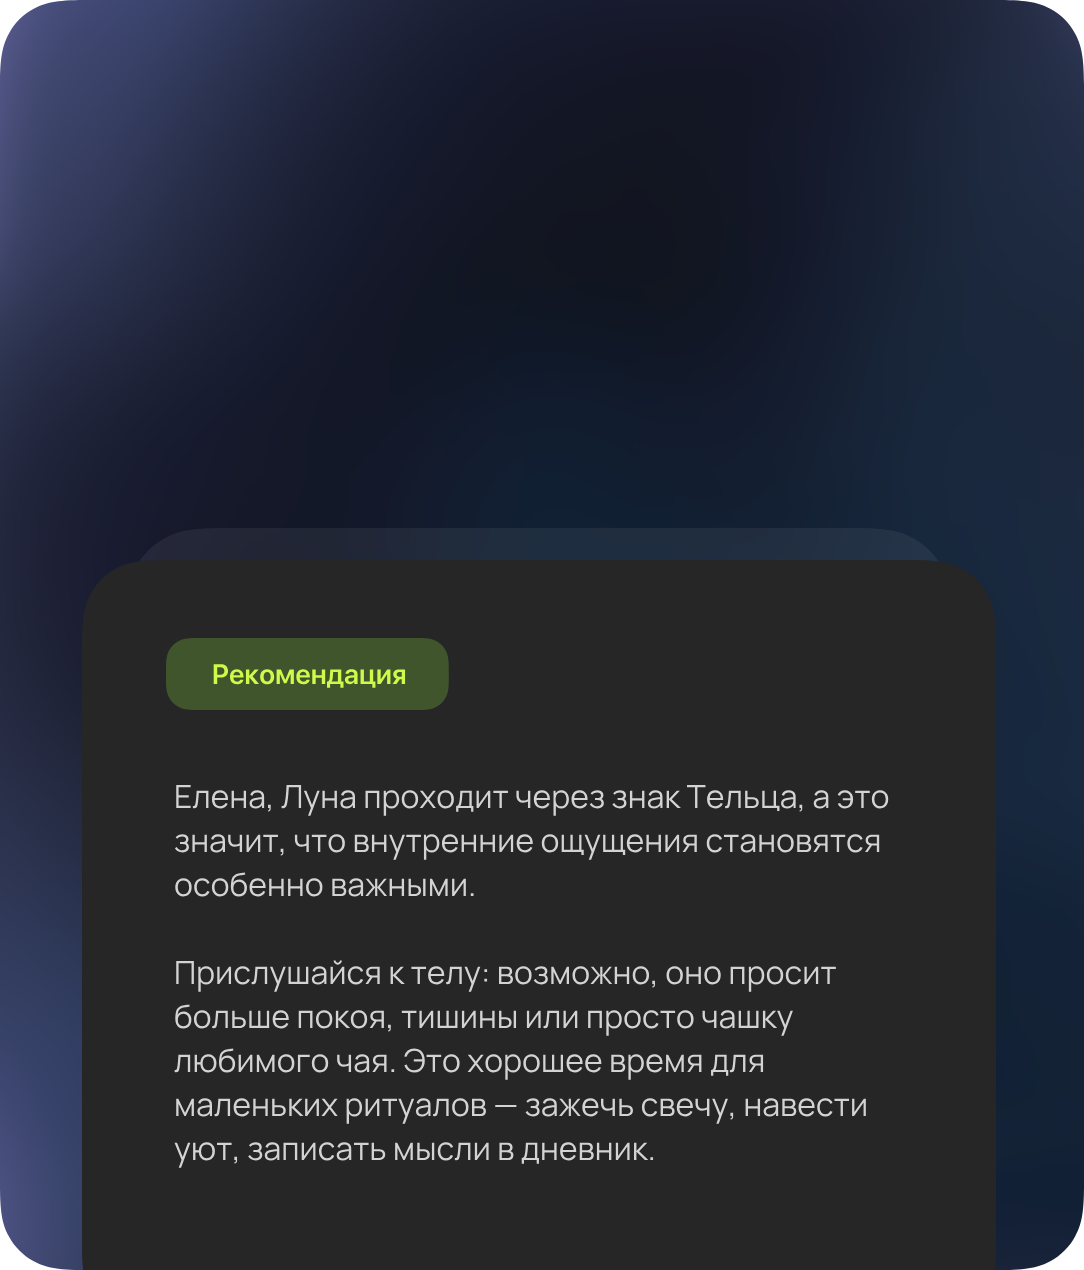
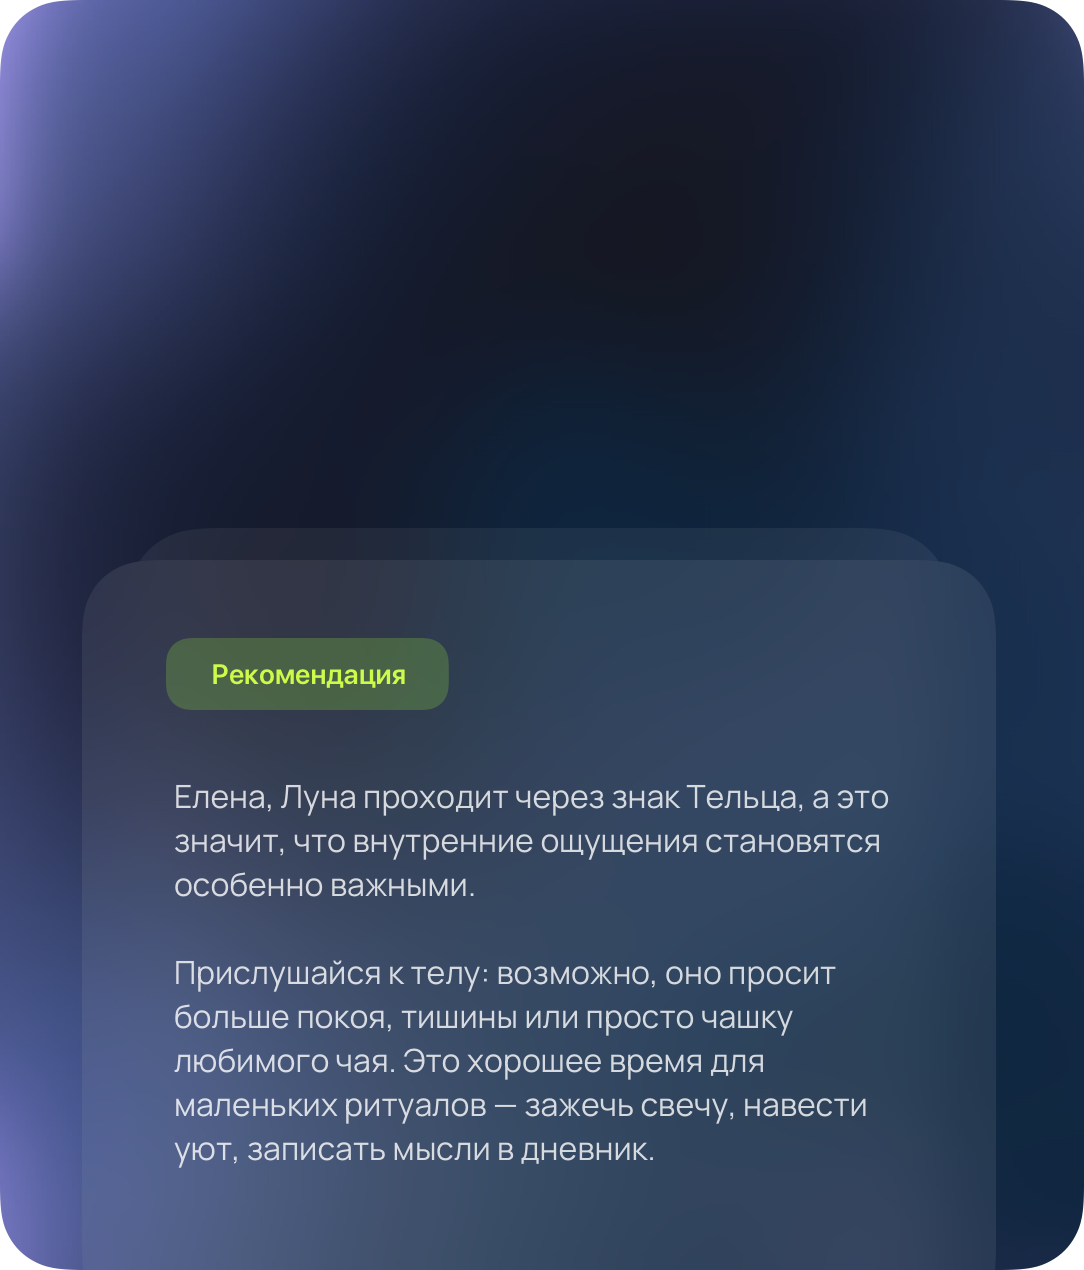
fix1

diff --git a/components/hero.vue b/components/hero.vue
@@ -31,8 +31,8 @@
 
       <div class="motion-container" ref="containerRef">
         <div class="subtitle-global">
-          Персональные подсказки, проверенные эксперты и практики <br />
-          для заботы о себе в одном приложении.
+          Персональные подсказки, проверенные эксперты и практики для заботы о
+          себе в одном приложении.
         </div>
       </div>
       <img
@@ -96,6 +96,7 @@ onMounted(() => {
 <style scoped lang="scss">
 .motion-container {
   width: 100%;
+  max-width: 575px;
   visibility: hidden;
 }
 
@@ -205,7 +206,7 @@ onMounted(() => {
   width: 90vw;
   height: 440px;
   border-radius: 50%;
-  // opacity: 0.57;
+  opacity: 0.57;
 
   &::before {
     content: "";

diff --git a/components/top-bar.vue b/components/top-bar.vue
@@ -15,8 +15,8 @@
       <div class="right__app">
         <BaseButton variant="rounded">
           <svg
-            width="22"
-            height="26"
+            width="18"
+            height="21"
             viewBox="0 0 22 26"
             fill="none"
             xmlns="http://www.w3.org/2000/svg"
@@ -31,8 +31,8 @@
 
         <BaseButton variant="rounded">
           <svg
-            width="22"
-            height="24"
+            width="18"
+            height="20"
             viewBox="0 0 22 24"
             fill="none"
             xmlns="http://www.w3.org/2000/svg"

diff --git a/components/shared/accordion-panel.vue b/components/shared/accordion-panel.vue
@@ -65,8 +65,9 @@ watch(expanded, async (val) => {
   display: flex;
   justify-content: space-between;
   align-items: center;
-  height: 80px;
-  border-bottom: 1px solid rgba(#fff, 0.15);
+  height: 70px;
+  border-top: 1px solid rgba(#fff, 0.15);
+  padding-top: 10px;
 }
 
 .header {
@@ -110,6 +111,6 @@ watch(expanded, async (val) => {
 
 .text {
   overflow: hidden;
-  // padding: 10px;
+  padding-bottom: 10px;
 }
 </style>

diff --git a/components/shared/base-button.vue b/components/shared/base-button.vue
@@ -108,9 +108,10 @@ const variantClass = `btn--${props.variant || "small"}`;
   display: flex;
   align-items: center;
   padding: 0 11px;
-  gap: 3px;
-  font-size: 15px;
-  font-weight: 500;
+  gap: 7px;
+  font-size: 14px;
+  letter-spacing: 0.14px;
+  font-weight: 600;
   color: #fff;
 
   &:hover {

diff --git a/assets/scss/main.scss b/assets/scss/main.scss
@@ -83,12 +83,13 @@ h3 {
 
 .subtitle-global {
   text-align: center;
-  font-size: 16px;
+  font-size: 18px;
   font-weight: 500;
   line-height: 25px;
   margin-top: 26px;
   margin-bottom: 54px;
   opacity: 0.54;
+  letter-spacing: 0.4px;
 }
 
 @media (max-width: 500px) {

diff --git a/components/shared/accordion.vue b/components/shared/accordion.vue
@@ -30,6 +30,7 @@ provide("accordion-register", () => {
   flex-direction: column;
   max-width: 1100px;
   width: 100%;
-  border-top: 1px solid rgba(255, 255, 255, 0.15);
+  margin: 0 auto;
+  border-bottom: 1px solid rgba(255, 255, 255, 0.15);
 }
 </style>

diff --git a/components/footer-comp.vue b/components/footer-comp.vue
@@ -79,7 +79,7 @@ footer {
 .copy {
   margin-top: 160px;
   width: 100%;
-  max-width: 1200px;
+  max-width: 1110px;
   border-radius: 20px;
   height: 173px;
   background-color: rgba(0, 0, 0, 0.42);

diff --git a/app.vue b/app.vue
@@ -49,6 +49,10 @@ onUnmounted(() => {
   width: 100vw;
 }
 
+main {
+  width: 100%;
+}
+
 @media (max-width: 500px) {
   .wrapper {
     padding: 0 5px;
